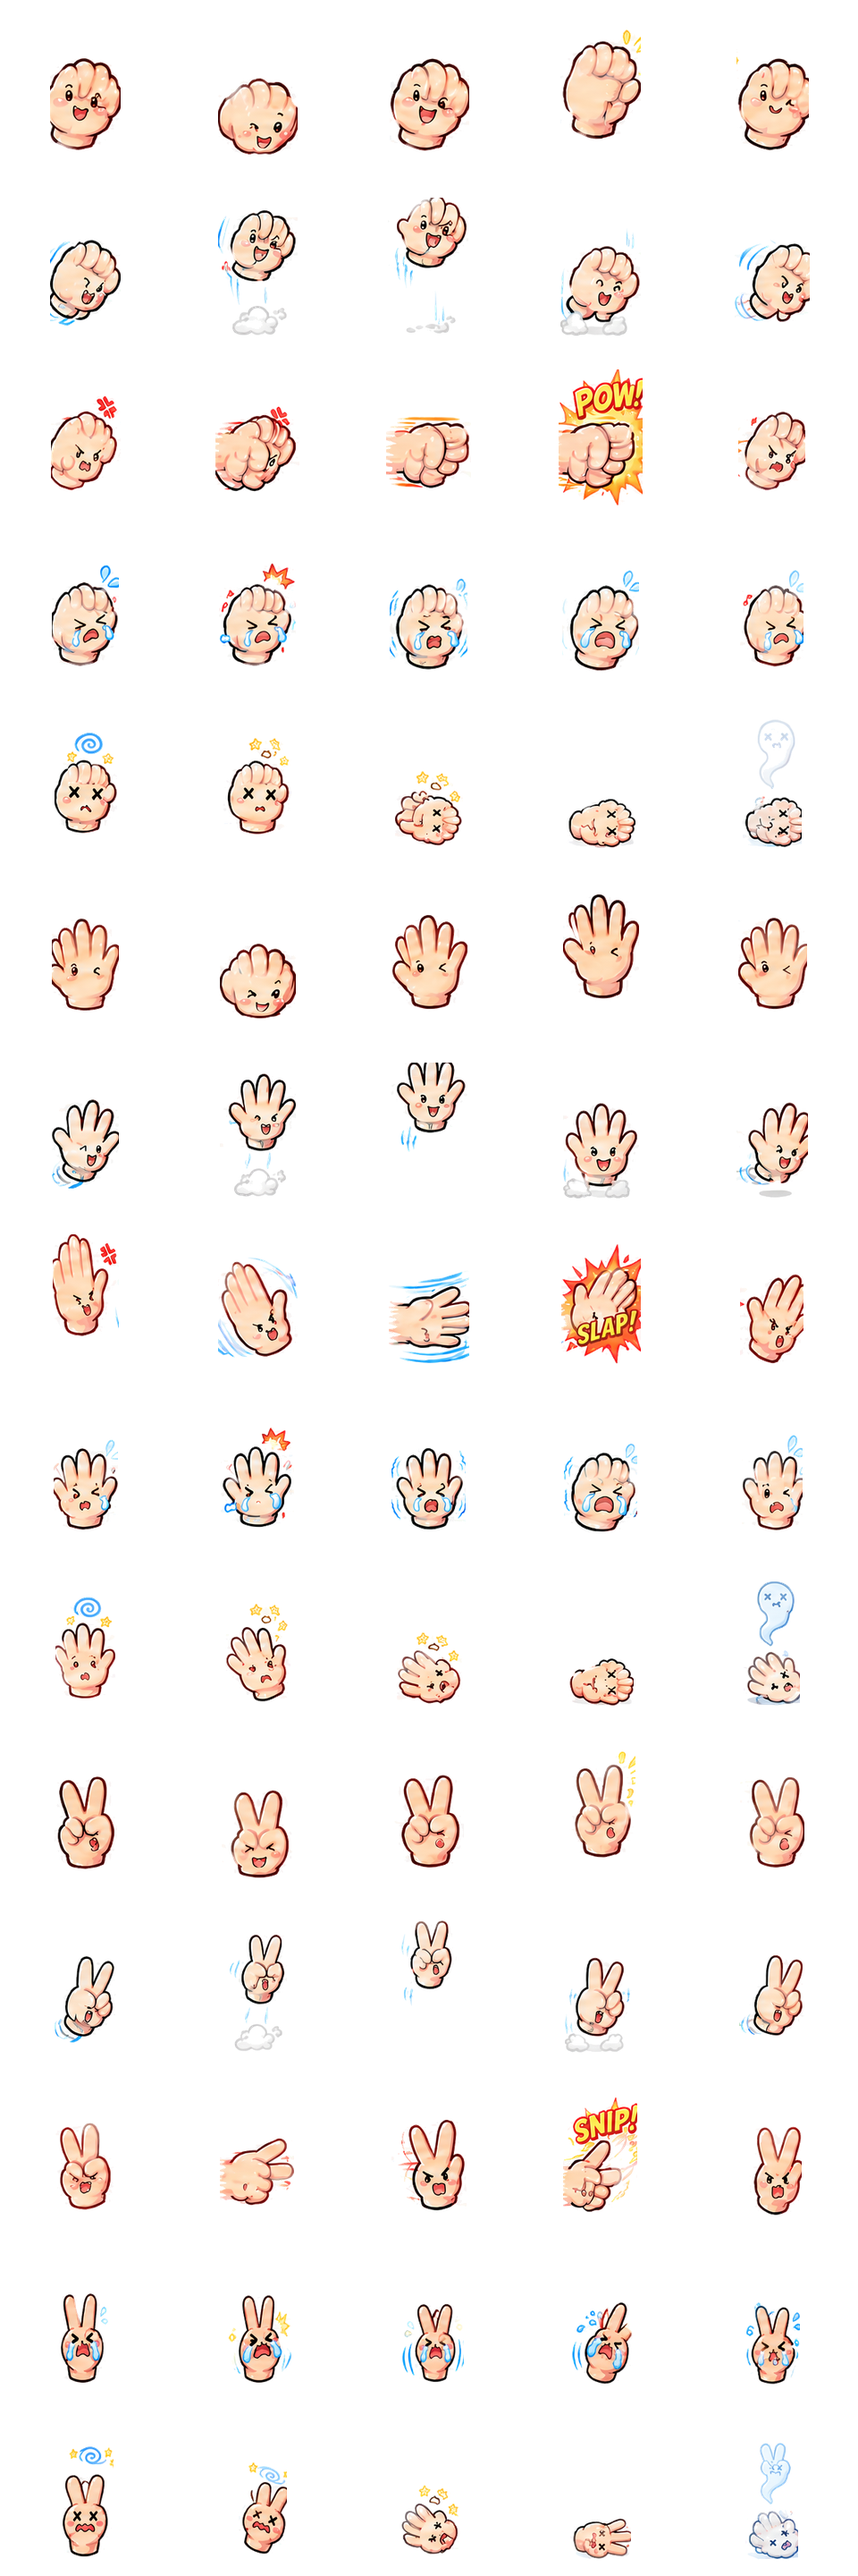
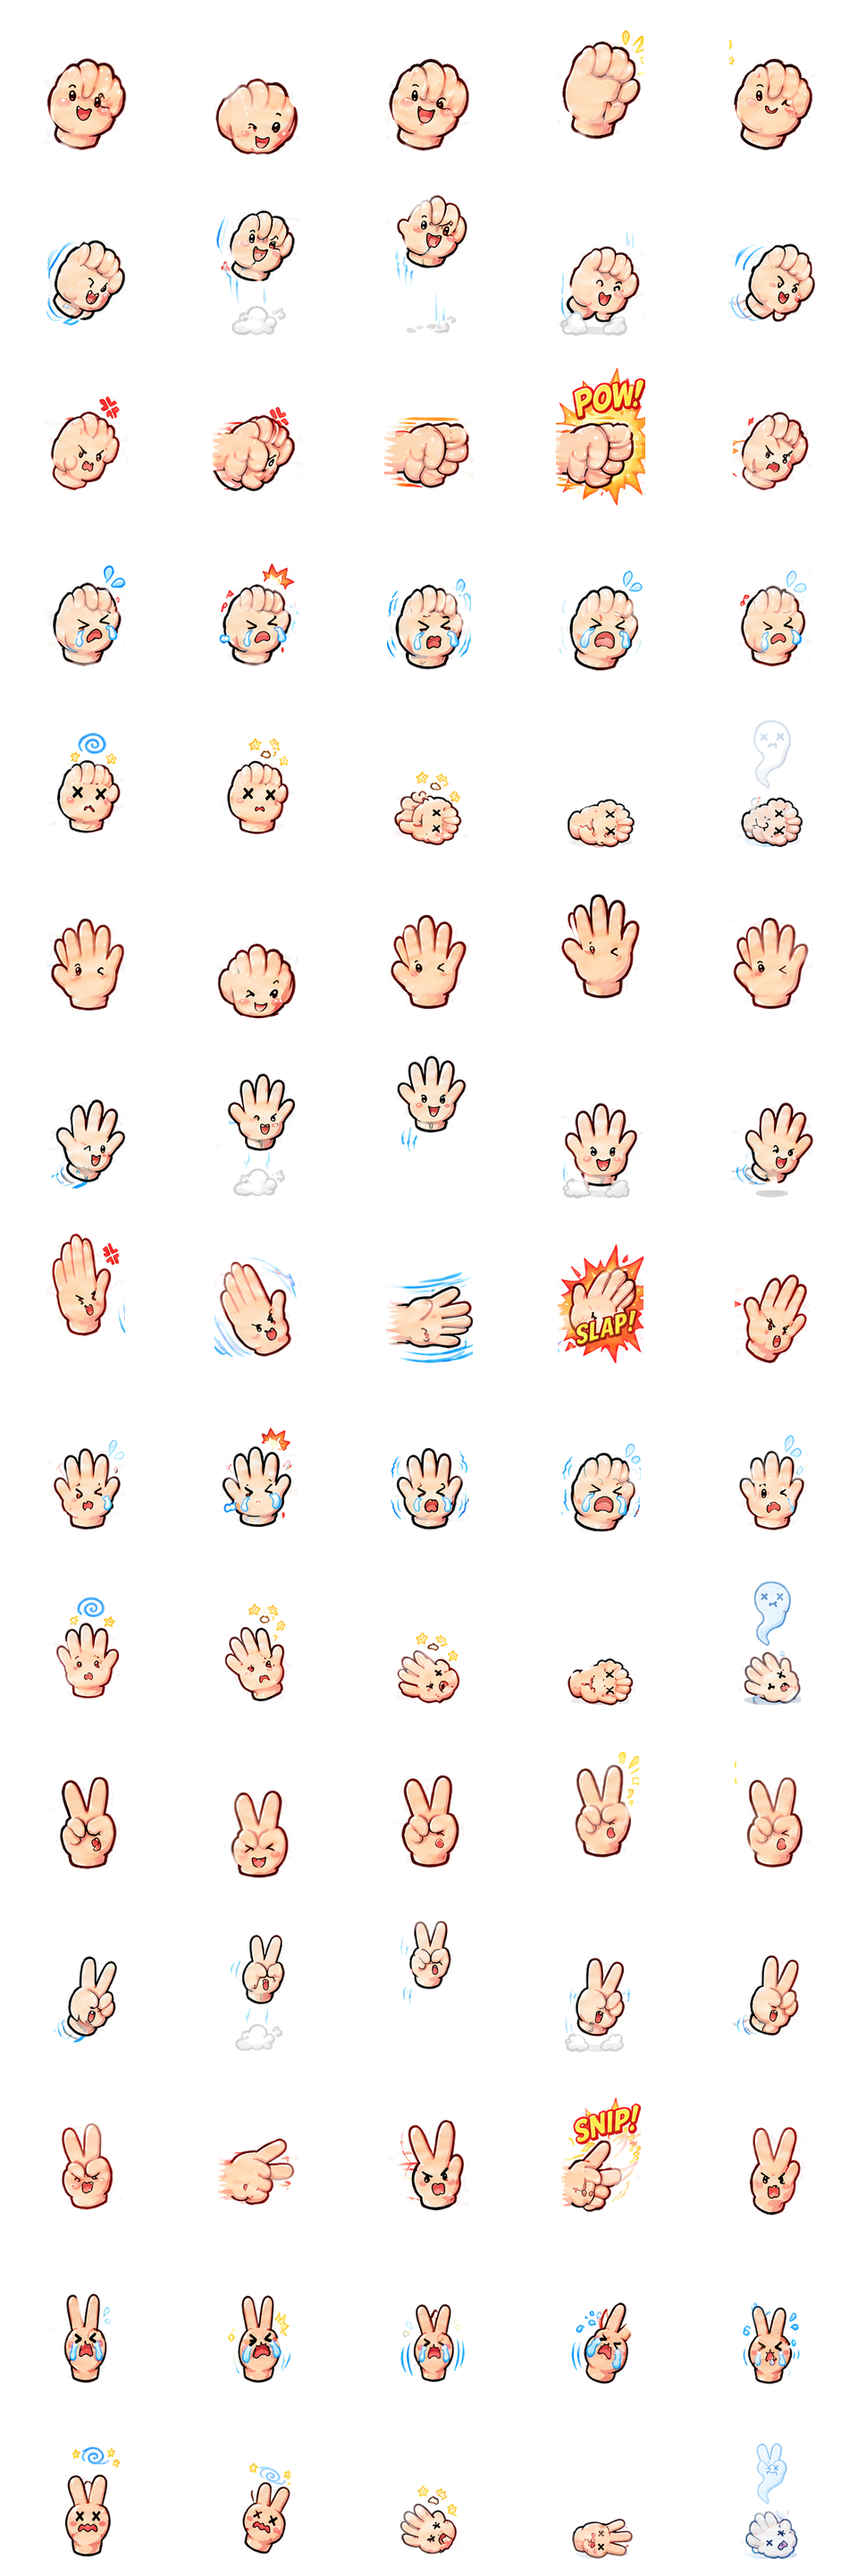
Hand sprites: cut right up to the sheet's cell lines and badges
Measures each cell line's columns and starts just under the numbered
badge, so frames keep everything drawn inside their cell (hop tops,
trails, bursts) instead of losing a safety margin.

Claude-Session: https://claude.ai/code/session_01R2EQohRet1QfgKEYwNZLap

diff --git a/tools/cut_hand_sprites.py b/tools/cut_hand_sprites.py
@@ -33,17 +33,36 @@ PANELS = [
     [2545, 2651, 2754, 2857, 2961, 3062],  # dying
 ]
 ROWS = [(122, 395), (404, 676), (688, 977)]
-BADGE = 62          # skip the numbered badge at the top of each cell
-LINE = 6            # skip the cell lines
-EDGE = 16           # skip the panel borders
+BADGE = 51          # start just under the numbered badge (art starts lower)
+EDGE_PAD = 1        # px kept clear of a line (its anti-aliased edge)
+ROW_PAD = 6         # px above the row's bottom border
 
 src = np.array(Image.open(sys.argv[1]).convert('RGB')).astype(float)
 lum = src @ np.array([0.299, 0.587, 0.114])
 
 
-def cells(lines):
-    # The panel's outer border is thicker than the lines between cells.
-    return [(lines[i] + (EDGE if i == 0 else LINE), lines[i + 1] - (EDGE if i == 4 else LINE)) for i in range(5)]
+def line_band(x_centre, y0, y1):
+    """The pixel columns of a cell line near x_centre: the ones painted (not
+    white) nearly all the way down the row. Art stops short of that."""
+    painted = (src[y0:y1, :].min(axis=2) < 235).mean(axis=0)
+    cols = [x for x in range(x_centre - 8, x_centre + 9) if painted[x] > 0.85]
+    if not cols:
+        return x_centre, x_centre
+    # The run of line columns containing (or nearest) the centre.
+    cols.sort(key=lambda x: abs(x - x_centre))
+    lo = hi = cols[0]
+    while lo - 1 in cols:
+        lo -= 1
+    while hi + 1 in cols:
+        hi += 1
+    return lo, hi
+
+
+def cells(lines, y0, y1):
+    """x ranges of a panel's 5 cells in one row, right up to (not including)
+    the lines between them."""
+    bands = [line_band(x, y0, y1) for x in lines]
+    return [(bands[i][1] + 1 + EDGE_PAD, bands[i + 1][0] - EDGE_PAD) for i in range(5)]
 
 
 def cut(x0, x1, y0, y1):
@@ -74,10 +93,10 @@ def cut(x0, x1, y0, y1):
 atlas = Image.new('RGBA', (CELL * 5, CELL * 15), (0, 0, 0, 0))
 clipped = []
 for k, (ry0, ry1) in enumerate(ROWS):
-    y0, y1 = ry0 + BADGE, ry1 - LINE
+    y0, y1 = ry0 + BADGE, ry1 - ROW_PAD
     # Scale and ground line for this kind, from its idle frames.
     heights, bottoms = [], []
-    for (x0, x1) in cells(PANELS[0]):
+    for (x0, x1) in cells(PANELS[0], y0, y1):
         _, solid = cut(x0, x1, y0, y1)
         lab, n = ndi.label(solid)
         sizes = ndi.sum(solid, lab, range(1, n + 1))
@@ -88,7 +107,7 @@ for k, (ry0, ry1) in enumerate(ROWS):
     s = HAND_HEIGHT / float(np.median(heights))
     ground = float(np.median(bottoms))  # in cell pixels
     for state, panel in enumerate(PANELS):
-        for f, (x0, x1) in enumerate(cells(panel)):
+        for f, (x0, x1) in enumerate(cells(panel, y0, y1)):
             rgba, _ = cut(x0, x1, y0, y1)
             img = Image.fromarray(rgba, 'RGBA')
             img = img.resize((round(img.width * s), round(img.height * s)), Image.LANCZOS)
